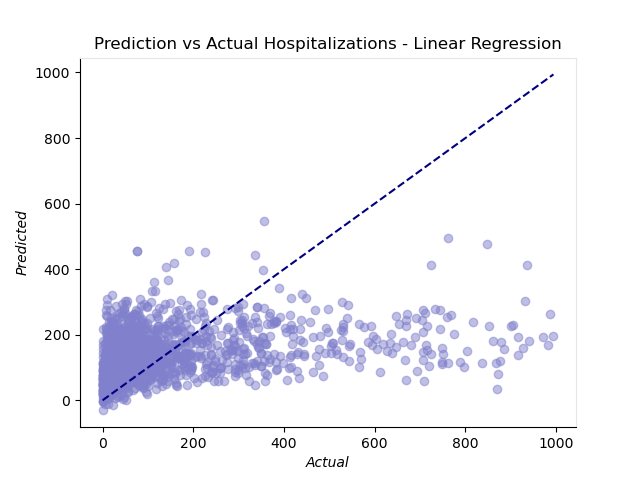
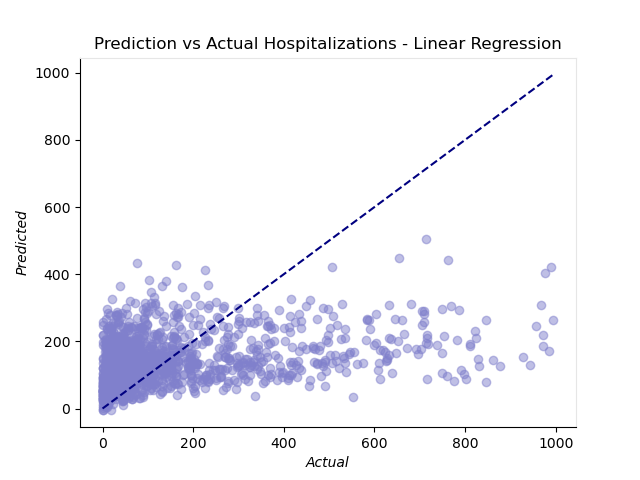
fixed code and figures to reflect actual training data

diff --git a/ml_analysis.py b/ml_analysis.py
@@ -26,8 +26,8 @@ df = pd.read_csv("/home/jreed/DS_SP2025_Team_CDA/cleaned_aqi_hospitalization_dat
 # ----------
 outcomes = 'Value'
 features = [
-    'StateFIPS', 
-    'CountyFIPS', 
+    # 'StateFIPS', 
+    # 'CountyFIPS', 
     'Year',
     'Good Days', 
     'Moderate Days', 'Unhealthy for Sensitive Groups Days', 
@@ -55,7 +55,6 @@ print(f'Min hospitalizations: {np.min(train_outcomes)}')
 print(f'Mean hospitalizations: {np.mean(train_outcomes)}')
 
 training_features, test_features, training_outcomes, test_outcomes = train_test_split(train_features, train_outcomes, test_size=0.3)
-training_features, val_features, training_outcomes, val_outcomes = train_test_split(train_features, train_outcomes, test_size=.1)
 
 # -----------
 # set up models
@@ -84,23 +83,17 @@ for i,model in enumerate(models):
     mean_test_acc = model.score(test_features, test_outcomes)
     print(f'mean testing acc: {mean_test_acc*100:.2f} %')
 
-    mean_val_acc = model.score(val_features, val_outcomes)
-    print(f'mean validation acc: {mean_val_acc*100:.2f} %')
-
     # -------
     # calculate errors
     # -------
 
     predictions_train = model.predict(train_features)
     predictions_test = model.predict(test_features)
-    predictions_val = model.predict(val_features)
 
     mae_train = mean_absolute_error(train_outcomes, predictions_train)
     print(f'MAE Train: {mae_train:.2f}')
     mae_test = mean_absolute_error(test_outcomes, predictions_test)
     print(f'MAE Test: {mae_test:.2f}')
-    mae_val = mean_absolute_error(val_outcomes, predictions_val)
-    print(f'MAE: {mae_val:.2f}')
 
     # ---------
     # calculate r2
@@ -109,9 +102,6 @@ for i,model in enumerate(models):
     print(f'R2 val train: {r2_val_train:.2f}')
     r2_val_test = r2_score(test_outcomes, predictions_test)
     print(f'R2 val test: {r2_val_test:.2f}')
-    r2_val_val = r2_score(val_outcomes, predictions_val)
-    print(f'R2 val valid: {r2_val_val:.2f}')
-
 
     # ------------
     # visualize predictions
